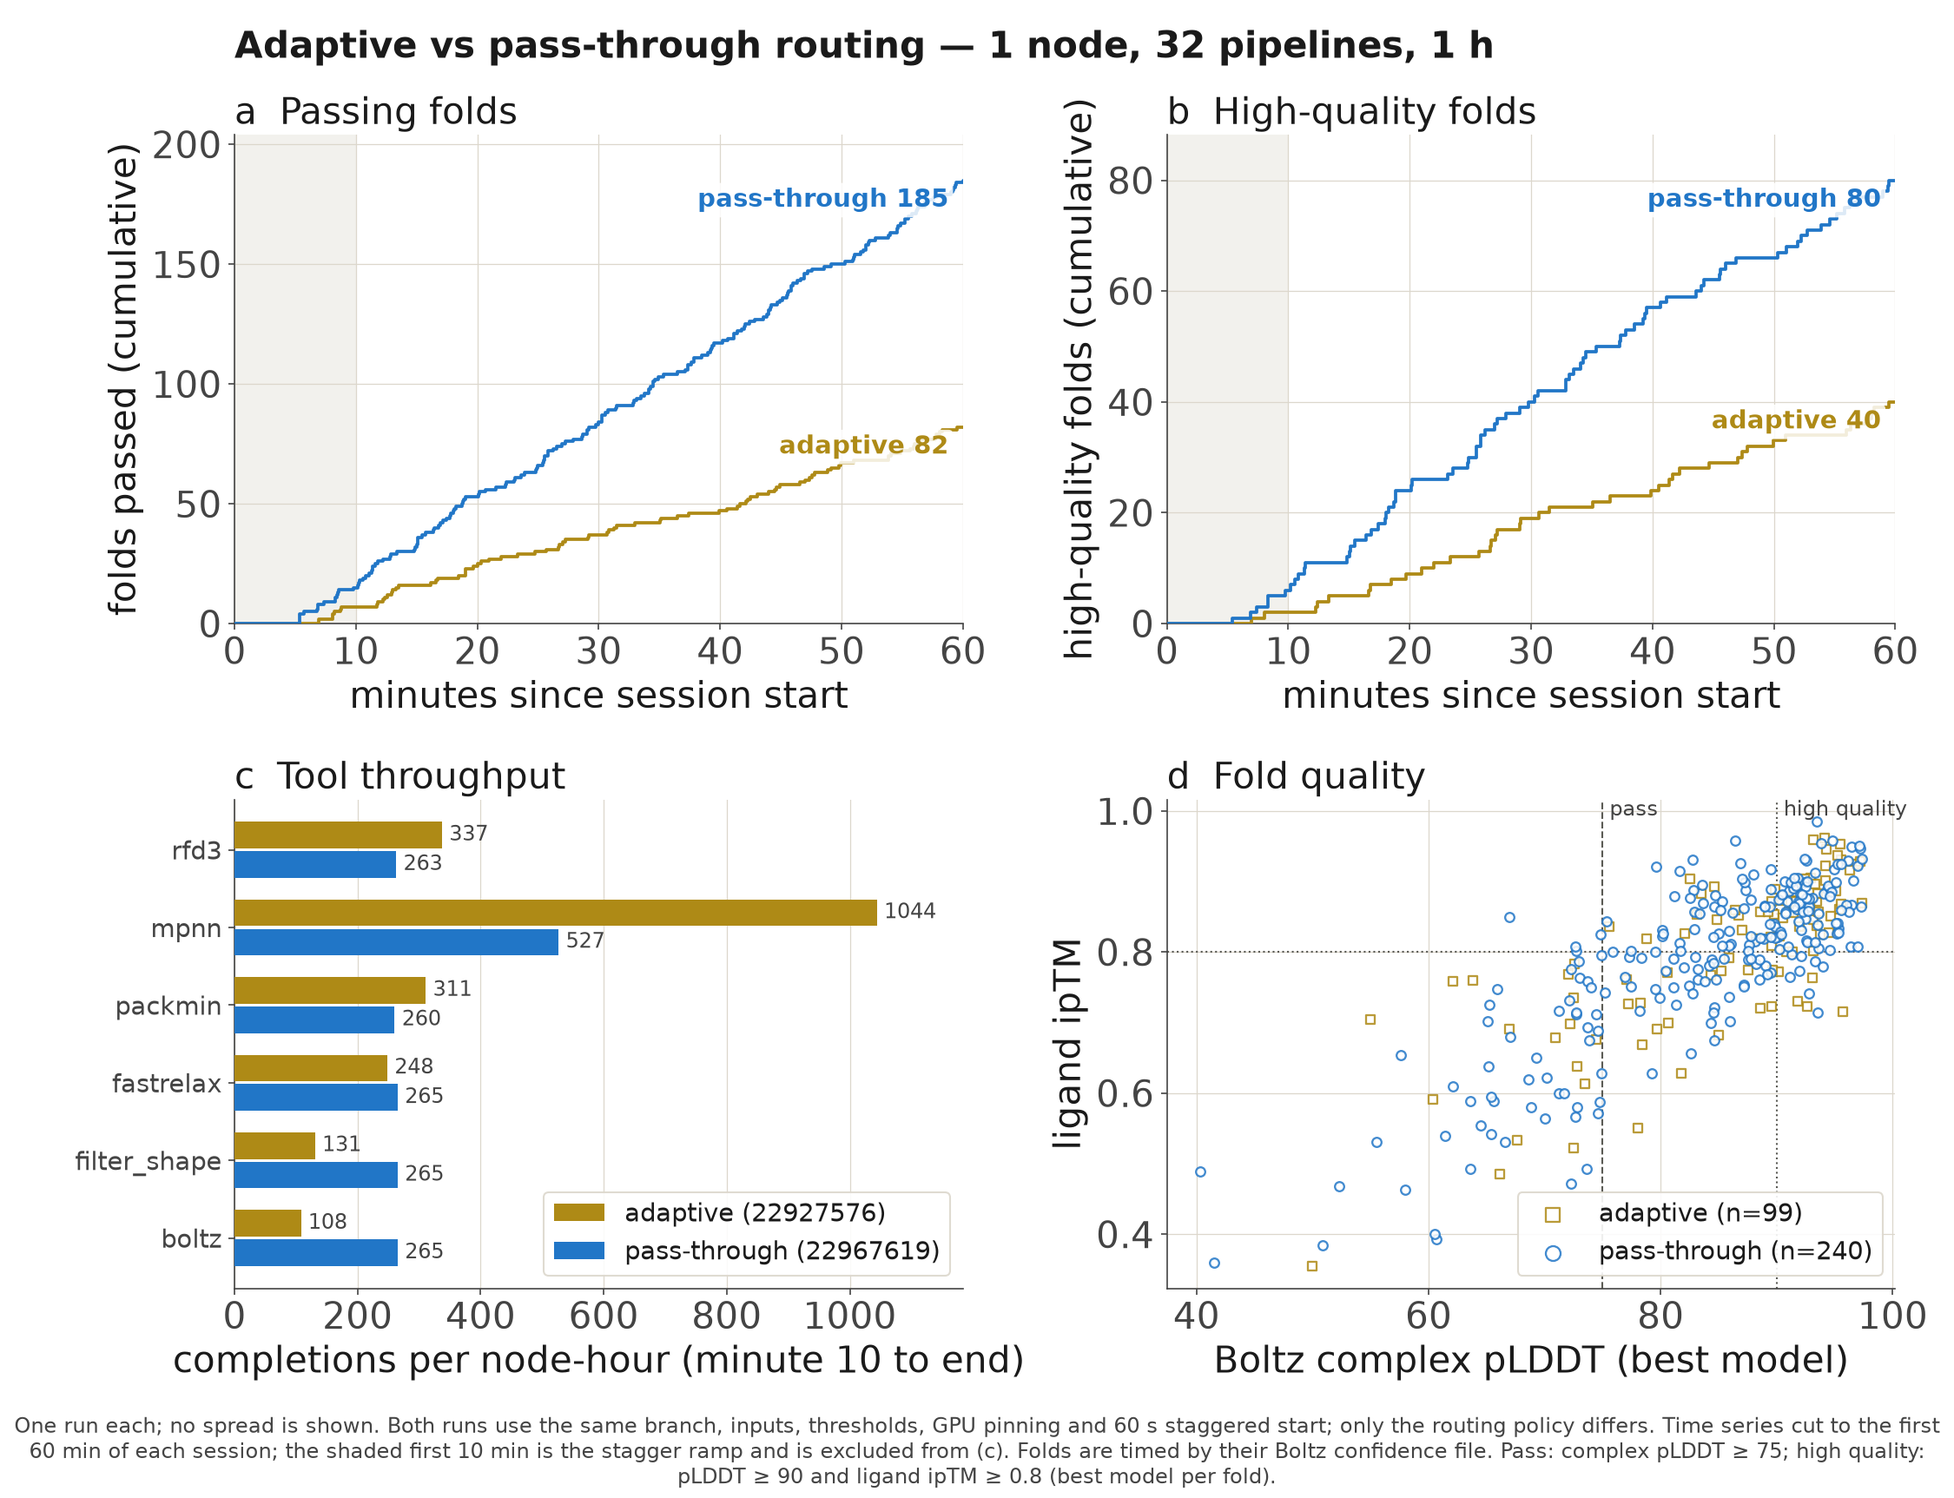
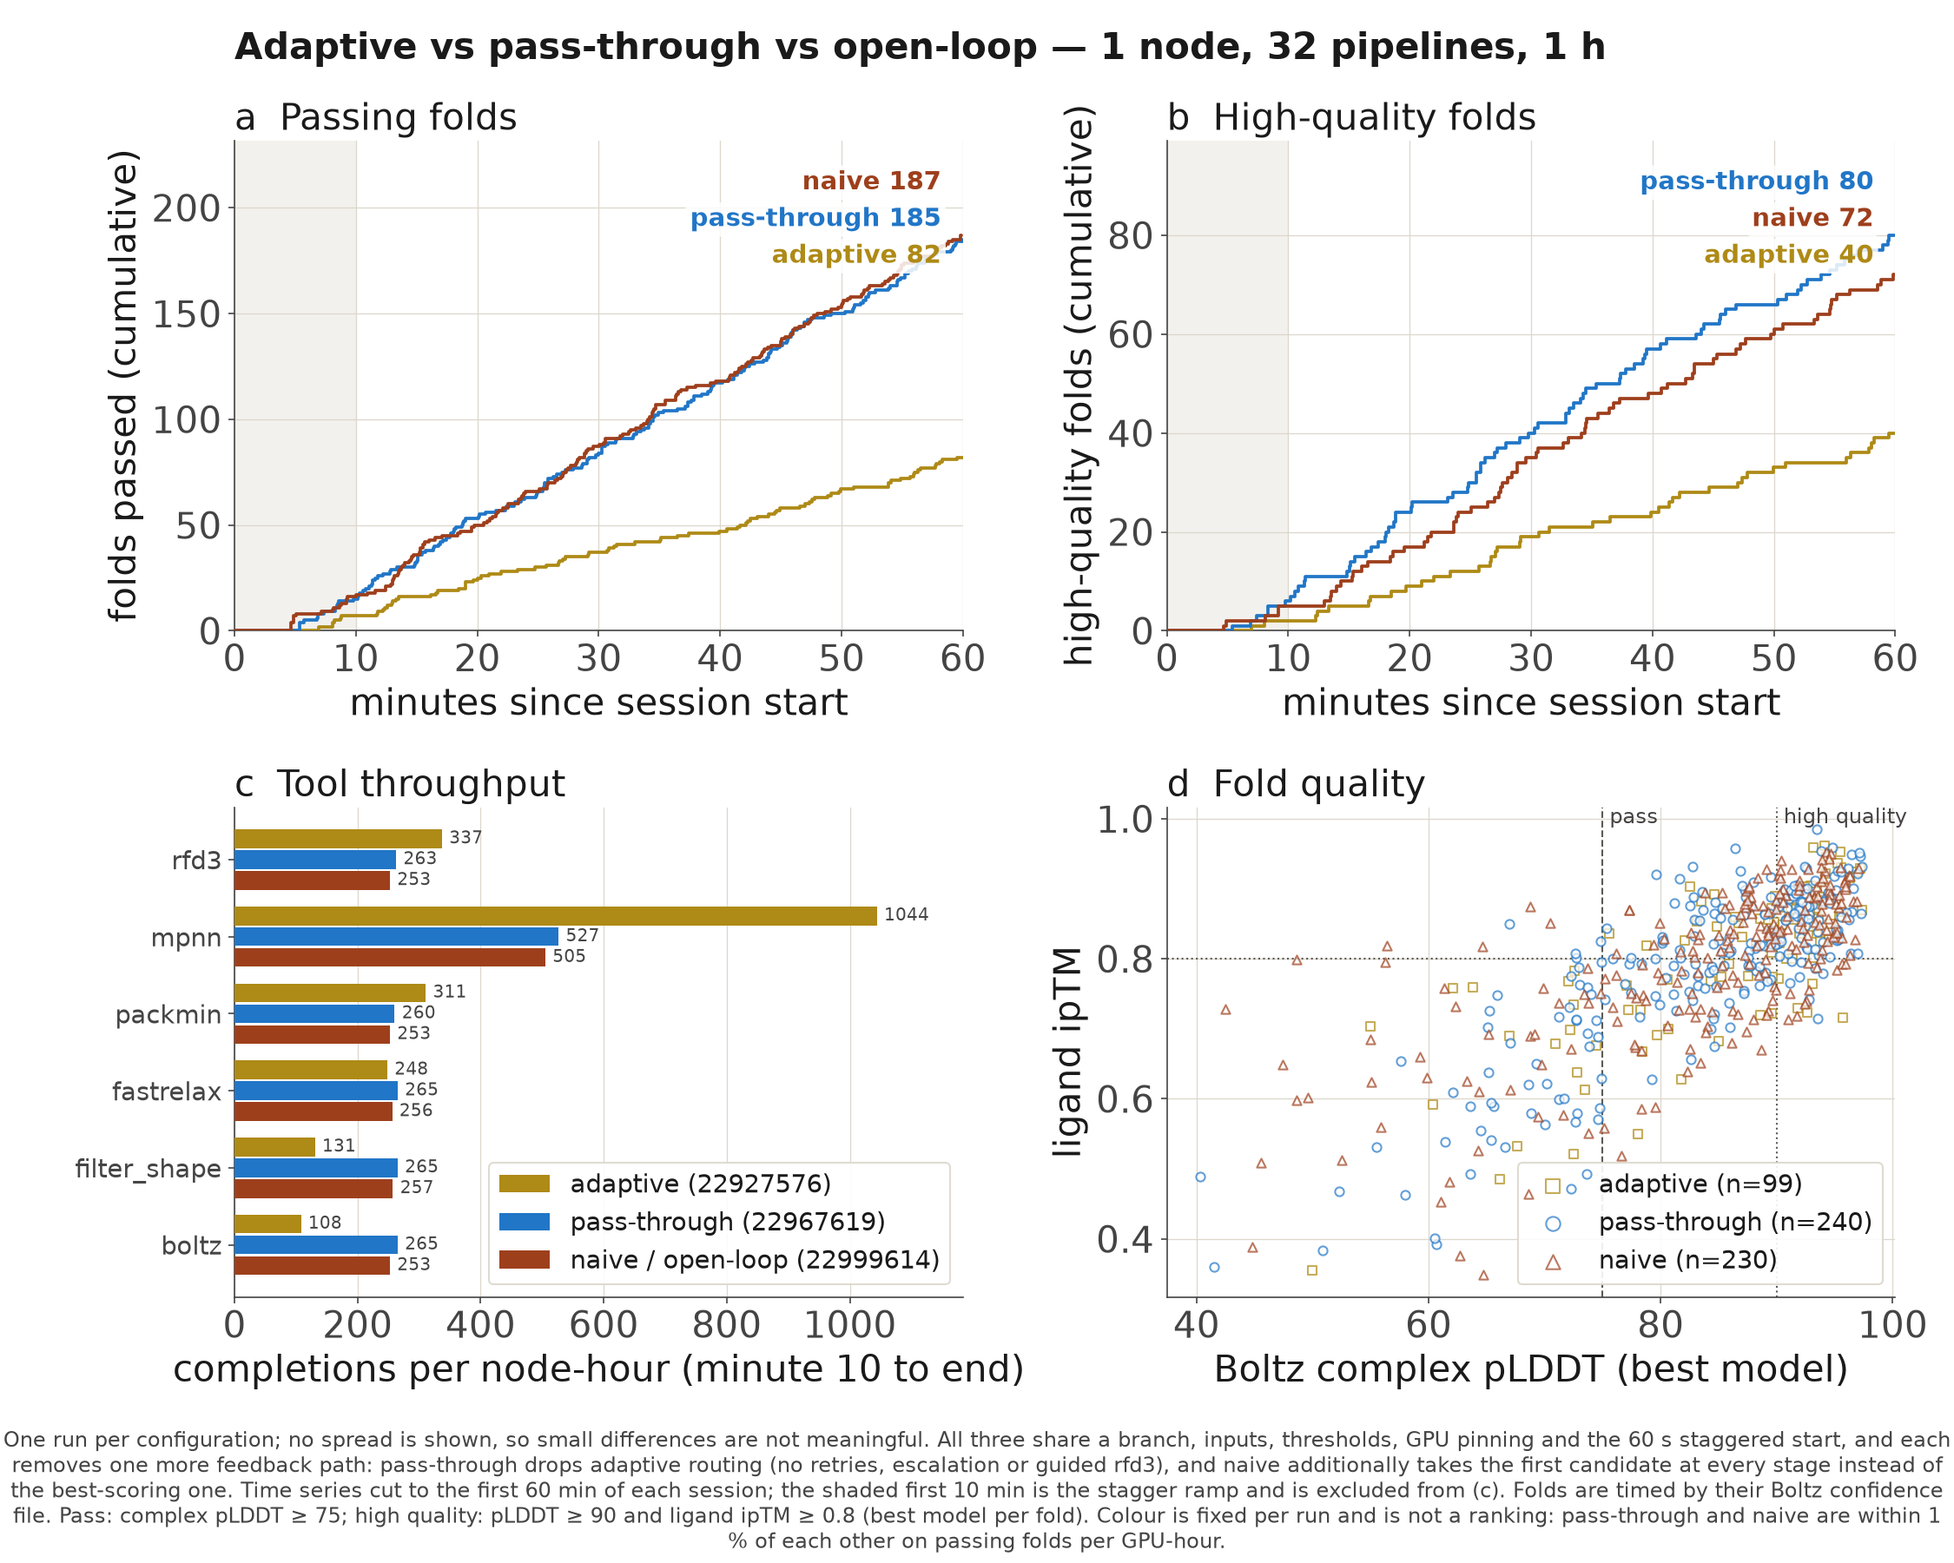
smb 24: record 22999614; open-loop selection ties pass-through
Clean rerun: 0 failures, 32/32 pipelines for the full hour. Naive gives
51.4 passing folds/GPU-h against pass-through's 51.0, and 20.2
high-quality against 22.2, with a higher pass rate (80.7% vs 76.6%) --
differences in both directions from one run each, i.e. a tie.

The new selection logs explain it: the first rfd3 model tied the pool's
best on ligand clashes 253/256 times (median deviation penalty 0.008 A
against a 1.0 A threshold), and mpnn's first candidate gave up a median
0.0132 confidence of ~0.46. The pools are nearly homogeneous, so
best-of-N and first-of-N are almost the same structure.

Yield across all three runs is set by how many backbones reach boltz,
not by which candidate each stage picks.

Figure extended to three runs.

diff --git a/examples/small_molecule_binding/figures/nonadaptive_benchmark.py b/examples/small_molecule_binding/figures/nonadaptive_benchmark.py
@@ -14,7 +14,7 @@ import plot_style as ps
 
 HERE = os.path.dirname(os.path.abspath(__file__))
 LOGS = os.path.join(HERE, "..", "logs")
-RUNS = ["22927576", "22967619"]
+RUNS = ["22927576", "22967619", "22999614"]
 WARMUP_MIN = 10
 PASS_PLDDT, HQ_PLDDT, HQ_IPTM = 75.0, 90.0, 0.8
 STAGES = ["rfd3", "mpnn", "packmin", "fastrelax", "filter_shape", "boltz"]
@@ -59,7 +59,7 @@ def main():
     ps.apply_rcparams()
     data = {j: load(j) for j in RUNS}
 
-    fig, axes = plt.subplots(2, 2, figsize=(15, 11.5))
+    fig, axes = plt.subplots(2, 2, figsize=(15, 12))
     fig.subplots_adjust(left=0.12, right=0.97, top=0.91, bottom=0.14,
                         hspace=0.36, wspace=0.28)
     (ax_pass, ax_hq), (ax_rate, ax_q) = axes
@@ -72,38 +72,49 @@ def main():
          "high-quality folds (cumulative)",
          "b  High-quality folds"),
     ):
+        totals = []
         for j in RUNS:
             st = ps.style_for(j)
             t = [f[0] for f in data[j]["folds"] if keep(f)]
             x = np.concatenate([[0], np.repeat(t, 2), [data[j]["end"]]])
             y = np.concatenate([[0, 0], np.repeat(np.arange(1, len(t) + 1), 2)])
             ax.plot(x, y, **ps.line_kw(j))
-            ps.direct_label(ax, x[-1], y[-1], f"{st.short} {len(t)}", st.color,
-                            dx=-8, dy=-4, ha="right", va="top")
+            totals.append((len(t), st))
+        # Totals as a stacked block in axes coordinates, ordered like the curves.
+        # pass-through and naive finish within 2 folds of each other, so a label
+        # on each line's end would overlap however it is offset.
+        for n, (count, st) in enumerate(sorted(totals, reverse=True,
+                                               key=lambda c: c[0])):
+            ax.annotate(f"{st.short} {count}", xy=(0.97, 0.94 - 0.075 * n),
+                        xycoords="axes fraction", ha="right", va="top",
+                        fontsize="medium", fontweight="bold", color=st.color,
+                        zorder=ps.Z["annot"],
+                        bbox=dict(boxstyle="round,pad=0.18", facecolor="white",
+                                  edgecolor="none", alpha=0.85))
         ax.axvspan(0, WARMUP_MIN, color=ps.GRID, alpha=0.35, linewidth=0,
                    zorder=ps.Z["band"])
         ax.set_xlim(0, ps.WINDOW_MIN)
-        ax.set_ylim(0, ax.get_ylim()[1] * 1.05)
+        ax.set_ylim(0, ax.get_ylim()[1] * 1.18)
         ax.set_xlabel("minutes since session start")
         ax.set_ylabel(ylabel)
         ax.set_title(title, loc="left")
 
     # (c) tool completions per node-hour, minute 10 to the end of the window
     y = np.arange(len(STAGES))
-    h = 0.38
+    h = 0.27
     for k, j in enumerate(RUNS):
         st = ps.style_for(j)
         d = data[j]
         hours = (d["end"] - WARMUP_MIN) / 60
         rate = [sum(1 for t, s in d["comp"] if s == stg and WARMUP_MIN <= t <= d["end"])
                 / hours for stg in STAGES]
-        yy = y + (k - 0.5) * h
+        yy = y + (k - (len(RUNS) - 1) / 2) * h
         ax_rate.barh(yy, rate, height=h * 0.9, color=st.color, label=st.label,
                      zorder=ps.Z["bar"])
         for yi, r in zip(yy, rate):
             ax_rate.annotate(f"{r:.0f}", xy=(r, yi), xytext=(4, 0),
                              textcoords="offset points", va="center",
-                             fontsize="small", color=ps.INK_SECONDARY,
+                             fontsize="x-small", color=ps.INK_SECONDARY,
                              zorder=ps.Z["annot"])
     ax_rate.set_yticks(y, STAGES, fontsize="medium")
     ax_rate.invert_yaxis()
@@ -117,8 +128,8 @@ def main():
     for j in RUNS:
         st = ps.style_for(j)
         f = np.array([(p, i) for _, p, i in data[j]["folds"]])
-        ax_q.scatter(f[:, 0], f[:, 1], s=26, marker=st.marker, facecolor="white",
-                     edgecolor=st.color, linewidth=1.1, alpha=0.85, zorder=ps.Z["line"],
+        ax_q.scatter(f[:, 0], f[:, 1], s=24, marker=st.marker, facecolor="white",
+                     edgecolor=st.color, linewidth=1.0, alpha=0.7, zorder=ps.Z["line"],
                      label=f"{st.short} (n={len(f)})")
     ax_q.axvline(PASS_PLDDT, color=ps.NEUTRAL_SERIES, linewidth=1, linestyle="--",
                  zorder=ps.Z["band"])
@@ -136,16 +147,21 @@ def main():
     ax_q.legend(loc="lower right", scatterpoints=1, markerscale=1.6,
                 fontsize="medium")
 
-    fig.suptitle("Adaptive vs pass-through routing — 1 node, 32 pipelines, 1 h",
+    fig.suptitle("Adaptive vs pass-through vs open-loop — 1 node, 32 pipelines, 1 h",
                  x=0.12, ha="left", fontsize="x-large", fontweight="bold")
     ps.caption(fig, (
-        "One run each; no spread is shown. Both runs use the same branch, inputs, "
-        "thresholds, GPU pinning and 60 s staggered start; only the routing policy "
-        f"differs. Time series cut to the first {ps.WINDOW_MIN} min of each session; "
-        "the shaded first 10 min is the stagger ramp and is excluded from (c). "
-        "Folds are timed by their Boltz confidence file. Pass: complex pLDDT ≥ 75; "
-        "high quality: pLDDT ≥ 90 and ligand ipTM ≥ 0.8 (best model per fold)."),
-        bottom=0.14)
+        "One run per configuration; no spread is shown, so small differences are "
+        "not meaningful. All three share a branch, inputs, thresholds, GPU pinning "
+        "and the 60 s staggered start, and each removes one more feedback path: "
+        "pass-through drops adaptive routing (no retries, escalation or guided rfd3), "
+        "and naive additionally takes the first candidate at every stage instead of "
+        f"the best-scoring one. Time series cut to the first {ps.WINDOW_MIN} min of "
+        "each session; the shaded first 10 min is the stagger ramp and is excluded "
+        "from (c). Folds are timed by their Boltz confidence file. Pass: complex "
+        "pLDDT ≥ 75; high quality: pLDDT ≥ 90 and ligand ipTM ≥ 0.8 (best model per "
+        "fold). Colour is fixed per run and is not a ranking: pass-through and naive "
+        "are within 1 % of each other on passing folds per GPU-hour."),
+        bottom=0.17)
     out = os.path.join(HERE, "nonadaptive_benchmark.png")
     fig.savefig(out)
     print(out)

diff --git a/examples/small_molecule_binding/figures/plot_style.py b/examples/small_molecule_binding/figures/plot_style.py
@@ -79,6 +79,12 @@ RUN_STYLES: dict[str, RunStyle] = {
     "22967619": RunStyle(
         label="pass-through (22967619)", short="pass-through",
         color="#2176c7", cmap="Blues", marker="o", tier="best"),
+    # Tied with pass-through on yield (51.4 vs 51.0 passing folds/GPU-h), so
+    # the tier here is not a ranking against it -- blue was assigned to
+    # pass-through first and colour follows the entity, never its rank.
+    "22999614": RunStyle(
+        label="naive / open-loop (22999614)", short="naive",
+        color="#9e3f1c", cmap="OrRd", marker="^", tier="lowest"),
 }
 
 # The equal window, in minutes. Wall clocks differ between runs, and a time

diff --git a/examples/small_molecule_binding/plans/2026-10-18-naive-reference.md b/examples/small_molecule_binding/plans/2026-10-18-naive-reference.md
@@ -159,9 +159,70 @@ log.
    mock, `first` logs `chosen_id=1 conf=0.3366 pool_best_conf=0.5670` against `best`'s
    `chosen_id=3 conf=0.5670`.
 2. Rerun the same job for a clean hour at 32 pipelines, and only then fill in the three-way
-   comparison. **Submitted as `22999614`** (2026-10-18). Scoring must first confirm 32 surviving
-   pipelines; if the fault recurs, the rerun is evidence about Dragon, not about selection.
+   comparison. **Done: `22999614` passed** — see the Result below.
 3. The fault itself is evidence for smb 15 (one failed stage kills its pipeline — 5 immediate
    `NoneType` deaths here, and 18 pipelines gone in total) and possibly smb 22. A single
    runtime hiccup costing 56 % of a run's concurrency is a resilience problem worth its own
    item, independent of this benchmark.
+
+
+<a id="result2"></a>
+## Result — job `22999614` (scored 2026-10-18): the clean rerun
+
+`TIMEOUT` at 01:00:14 on gpub091, as planned. **0 `TaskFailed`, 0 `State.DEAD`, 0 `NoneType`
+deaths, and 32 of 32 pipelines active in every 10-minute bucket**, so unlike `22970061` this one
+is comparable. 4 completion stalls > 15 s (max 22 s).
+
+| Min 10–60 | `22927576` adaptive | `22967619` pass-through | `22999614` naive |
+|---|---|---|---|
+| rfd3 / mpnn / boltz per node-h | 337.0 / 1043.5 / 107.9 | 262.7 / 526.5 / 265.1 | 252.6 / 505.3 / 252.6 |
+| boltz per rfd3 | 0.32 | 1.01 | 1.00 |
+| folds / passed (pass rate) | 90 / 75 (83.3 %) | 222 / 170 (76.6 %) | 212 / 171 (**80.7 %**) |
+| high quality | 38 (42.2 %) | 74 (33.3 %) | 67 (31.6 %) |
+| median `complex_plddt` / `ligand_iptm` | 89.6 / 0.836 | 86.7 / 0.810 | 87.7 / 0.815 |
+| **passing folds per GPU-h** | 22.5 | 51.0 | **51.4** |
+| **high-quality folds per GPU-h** | 11.4 | 22.2 | 20.2 |
+| GPU busy (mean) | 70–81 % | 58–62 % | 61–69 % |
+| `TaskFailed`, stalls > 15 s | 0, 2 | 0, 8 | 0, 4 |
+
+**Removing within-stage selection changed almost nothing.** Naive matches pass-through on
+passing folds per GPU-h (51.4 vs 51.0, +0.8 %) and is 9 % below it on high-quality folds
+(20.2 vs 22.2) — while its pass rate is *higher* (80.7 % vs 76.6 %) and its median pLDDT is
+*higher* (87.7 vs 86.7). Those differences point in opposite directions and come from one run
+each, so the honest conclusion is that **greedy per-stage picking is worth roughly nothing here**,
+not that it is harmful or helpful.
+
+### Why: the candidate pools are nearly homogeneous
+
+The new `[selection/*]` log lines say it directly, over the whole run:
+
+| Selection point | Calls | What picking the best was buying |
+|---|---|---|
+| backbone (pool of 4 rfd3 models) | 256 | the first model already tied the pool's best on ligand clashes **253/256 times (99 %)**; it had more clashes only 3 times (1 %). Median `max_ca_deviation` penalty **0.008 Å**, mean 0.059, worst 0.951 — against a 1.0 Å threshold |
+| sequence (pool of 40, then 4) | 496 | median confidence left on the table **0.0132** (chosen 0.4623 vs pool best 0.4777, ~3 %); worst case 0.0565 |
+
+RFD3 with the same spec produces four backbones of near-identical quality, and LigandMPNN's
+candidates sit in a narrow confidence band, so "best of N" and "first of N" are almost the same
+structure. That is a property of these pools, not a general result: a tool whose candidates vary
+widely would make selection matter.
+
+### What the three runs say together
+
+1. **Adaptive routing is the expensive part, and it did not pay for itself over 1 h.** It spends
+   ~3.7 mpnn per rfd3 on retries and folds a third of its backbones, for 22.5 passing folds per
+   GPU-h against ~51 for both open-loop variants. Its folds *are* better (42.2 % high quality vs
+   ~32 %), but not by enough to cover a 2.3× yield gap.
+2. **Within-stage picking is nearly free to drop**, for the reason above.
+3. So the yield difference in this workflow comes almost entirely from **how many backbones reach
+   boltz**, not from which candidate each stage picks.
+
+### Limits
+
+- One run per configuration; no spread. The naive-vs-pass-through differences here are within
+  what run-to-run variation would plausibly produce, which is the basis for calling them a tie.
+- 1 h, ~4 min of it stagger. The adaptive policy's guided feedback depends on ensemble history
+  that barely exists by minute 60, so this measures early-campaign behaviour. A multi-hour pair
+  is the next thing to run before any of this is treated as settled.
+- Quality here means Boltz self-confidence (pLDDT, ligand ipTM), not an experimental result.
+
+Figure: `figures/nonadaptive_benchmark.py` → `figures/nonadaptive_benchmark.png`, all three runs.

diff --git a/examples/small_molecule_binding/plans/BACKLOG.md b/examples/small_molecule_binding/plans/BACKLOG.md
@@ -34,7 +34,7 @@ counterparts there (F5, F11, F11, F4, F6).
 | 21 | Job evidence split across the submit dir: `impress_%j.out`, `asyncflow.session.*`, `ddict_orc_*` land outside `IMPRESS_WORK_DIR` | low | open | [run-storage-footprint](2026-10-08-run-storage-footprint.md) |
 | 22 | Dragon completion delivery stalls: no completion for 76 s on `22767771` (min 28.4; then 26 at once) and 152 s on `22714866`, idling every pipeline; 3 silences ≤ 20 s on `22718758`; 2 (≤ 24 s) on `22927576`, which had no smb 16 event either. Suspected: rhapsody's monitor thread blocks in `batch_task.get(block=True)` (`dragon.py:236`) | medium | open, upstream; diagnosed from telemetry only. Next: `py-spy dump` on a silence > 30 s | [upstream/rhapsody-dragon-completion-stall](upstream/rhapsody-dragon-completion-stall.md) |
 | 23 | No non-adaptive baseline matching the current runner: `run_nonadaptive.py` predated GPU pinning, staggered start, the `local` backend and telemetry. Benchmark: 1 node, 1 h, 32 pipelines, pass-through routing, against `22927576` | medium | **done** on `22967619` (2026-10-17): 0 failures. Pass-through gave 51.0 passing / 22.2 high-quality folds per GPU-h, against 22.5 / 11.4 adaptive (2.27× / 1.95×), at a lower pass rate (77 % vs 83 %). 1 h only. Next: merge the branch, then delete this row; a multi-hour pair would settle steady state | [nonadaptive-benchmark](2026-10-17-nonadaptive-benchmark.md) |
-| 24 | No open-loop reference: pass-through (23) still picks the best of 4 rfd3 models and 40 mpnn candidates per backbone, so metrics still steer the work. Benchmark `selection="first"`, same shape, against `22967619` and `22927576` | medium | `--selection first` / `IMPRESS_SELECTION=first` added on branch `smb-nonadaptive-benchmark`, mock-verified. First Delta attempt `22970061` (2026-10-18) is **inconclusive**: a Dragon `ProcessGroup` fault 9 min in killed 18 of 32 pipelines, so its rates measure the fault. Quality direction only: high-quality share 42.2 % adaptive -> 33.3 % pass-through -> 27.6 % naive. `pool_best` logging added (`6905313`); clean rerun `22999614` submitted | [naive-reference](2026-10-18-naive-reference.md) |
+| 24 | No open-loop reference: pass-through (23) still picks the best of 4 rfd3 models and 40 mpnn candidates per backbone, so metrics still steer the work. Benchmark `selection="first"`, same shape, against `22967619` and `22927576` | medium | `--selection first` / `IMPRESS_SELECTION=first` added on branch `smb-nonadaptive-benchmark`, mock-verified. First Delta attempt `22970061` (2026-10-18) is **inconclusive**: a Dragon `ProcessGroup` fault 9 min in killed 18 of 32 pipelines, so its rates measure the fault. Quality direction only: high-quality share 42.2 % adaptive -> 33.3 % pass-through -> 27.6 % naive. **done** on `22999614` (2026-10-18): 0 failures, 32/32 pipelines. Naive ties pass-through (51.4 vs 51.0 passing folds/GPU-h; 20.2 vs 22.2 high-quality) because the candidate pools are nearly homogeneous — the first rfd3 model tied the best on clashes 253/256 times, and mpnn's first candidate gave up a median 0.013 confidence. Yield is set by how many backbones reach boltz, not by per-stage picking. Next: merge the branch and delete rows 23/24; a multi-hour pair would settle steady state | [naive-reference](2026-10-18-naive-reference.md) |
 
 ## Closed 2026-10-06 by the 32-pipeline scale gate (`22701168`; [scale-gate](2026-10-06-scale-gate.md))
 
